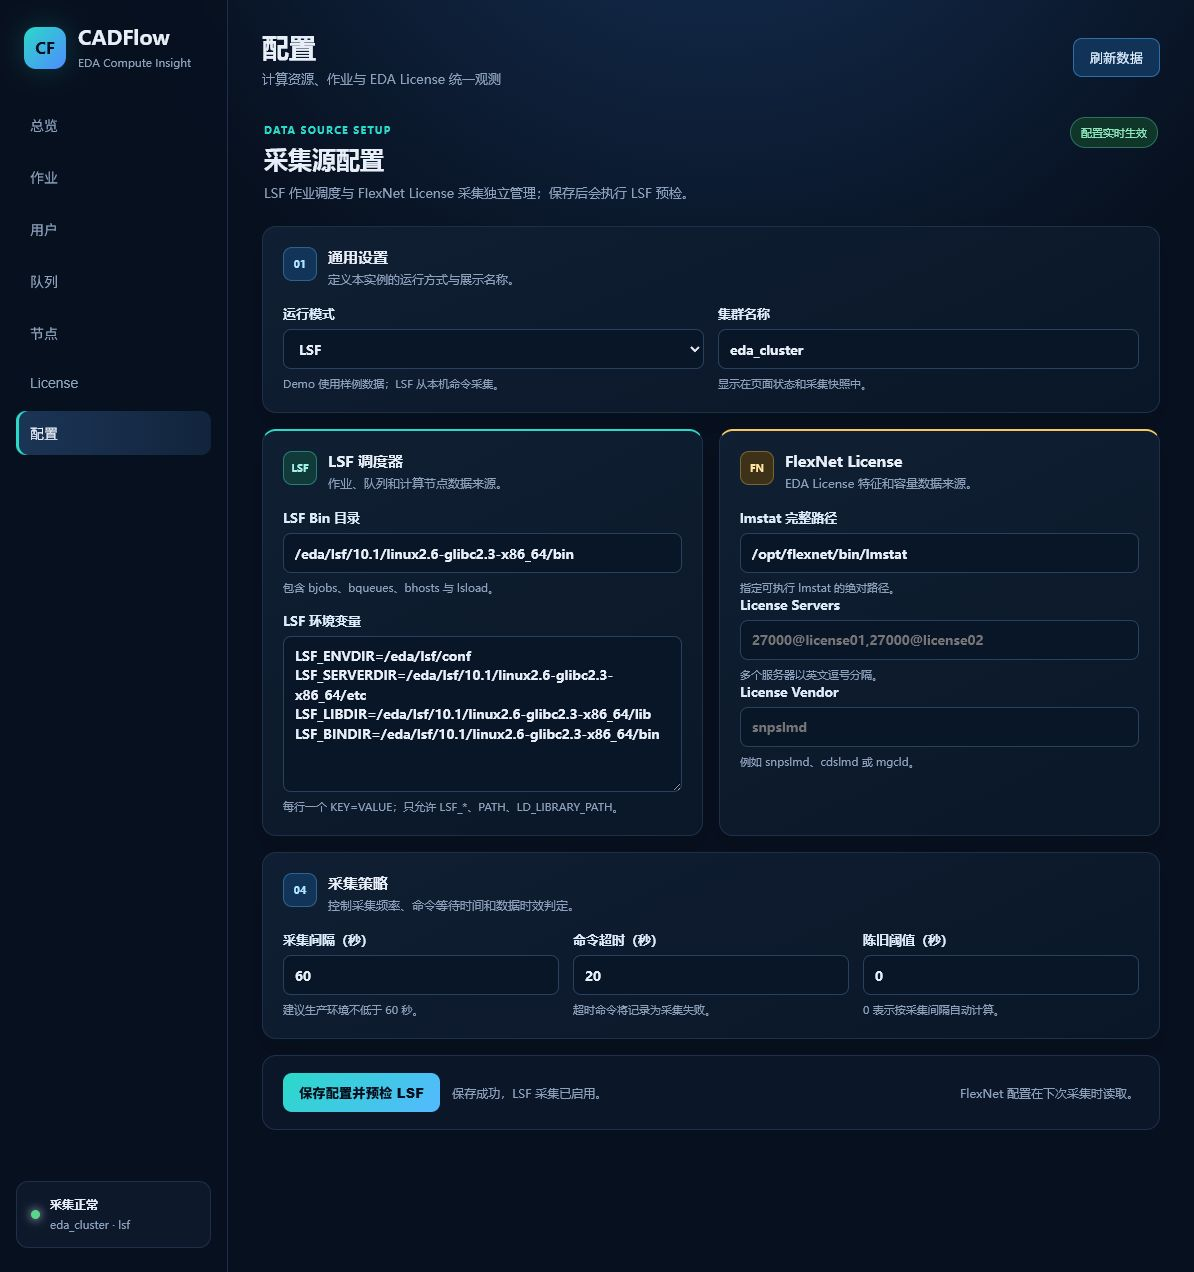
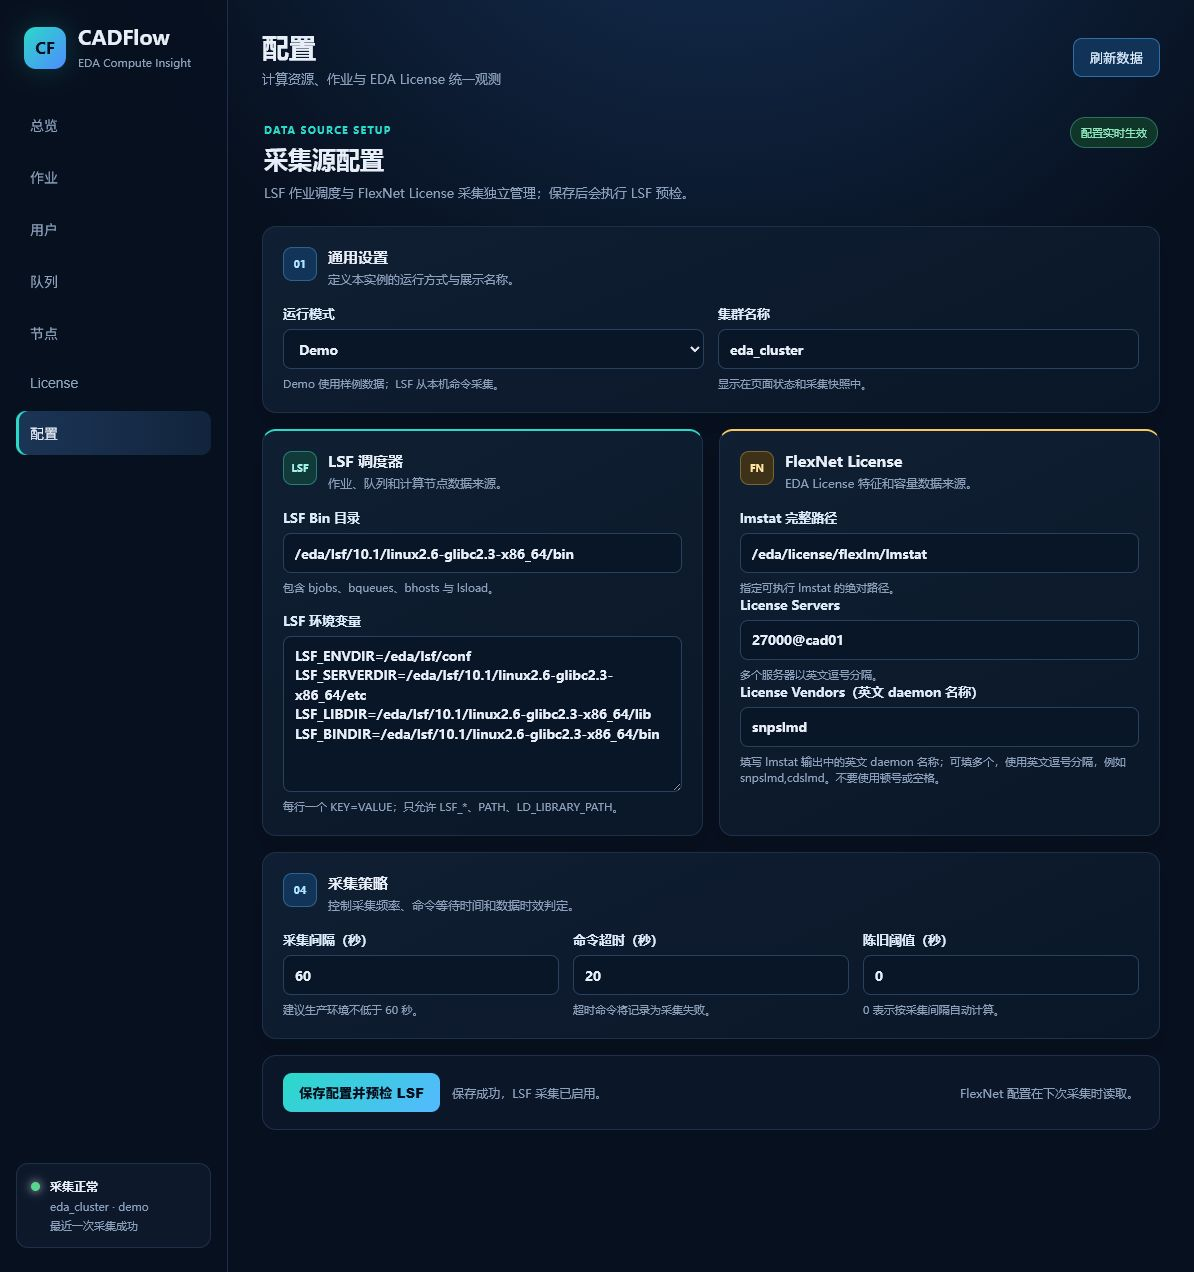
docs: rewrite README with product views

diff --git a/README.md b/README.md
@@ -1,32 +1,82 @@
 # CADFlow Lite
 
-面向芯片公司 CAD/LSF 运维的轻量监控门户。它运行在 Rocky Linux 原生 Python + systemd 环境中，不使用 Docker、Podman、Docker Compose 或 Maven/POM。
+CADFlow Lite 是面向 EDA / CAD 运维团队的轻量级 LSF 与 FlexNet 可观测门户。它将作业、用户、队列、计算节点和 License 用量汇聚到一个 Web 界面，适合在 Rocky Linux 上以原生 Python + systemd 方式部署。
 
-## 产品效果
+不依赖 Docker、Podman、Docker Compose 或 Maven/POM；服务启动后直接访问 `http://服务器IP:8080`。
 
-### 集群总览
+## 功能概览
+
+| 模块 | 解决的问题 |
+| --- | --- |
+| 总览 | 快速查看运行/等待/异常作业、Slots、资源利用率与告警 |
+| 作业 | 按用户、状态筛选作业；查看提交时间、缩略作业名、提交/执行节点、资源申请与运行时长 |
+| 用户 | 汇总各用户的作业数、运行 Slots 与资源占用，并可搜索过滤 |
+| 队列 | 查看 LSF 队列的状态、优先级、并发与等待情况 |
+| 节点 | 查看 Slots、CPU 利用率、Load、可用内存、`/tmp` 与 Swap 等 LSF 主机资源 |
+| License | 读取 FlexNet `lmstat`，按 Vendor、特征名和状态筛选许可证使用情况 |
+| 配置 | 在 Web 中分别配置 LSF 与 FlexNet 采集源，并通过只读 LSF 预检后启用真实采集 |
+
+## 产品界面
+
+以下图片来自当前 CADFlow Web 界面。截图中的数据为演示数据，仅用于展示布局与交互；生产数据由现场 LSF 与 FlexNet 命令只读采集。
+
+### 1. 集群总览
+
+一屏汇总作业状态、Slots、资源利用率、活跃告警及队列负载趋势，适合日常值守。
 
 ![CADFlow 集群总览](docs/screenshots/overview.png)
 
-### 用户资源使用
+### 2. 作业
 
-![CADFlow 用户资源使用](docs/screenshots/users.png)
+支持按用户和作业状态过滤；每个作业显示提交时间、缩略作业名称、提交节点、执行节点、申请资源与运行时长。
 
-### LSF / FlexNet 配置
+![CADFlow 作业视图](docs/screenshots/jobs.png)
+
+### 3. 用户
+
+按 LSF 用户汇总运行、等待、异常作业与 Slots 使用，便于定位资源占用来源。
+
+![CADFlow 用户视图](docs/screenshots/users.png)
+
+### 4. 队列
+
+展示队列优先级、开放/激活状态、作业数、等待数和运行数，辅助判断调度瓶颈。
+
+![CADFlow 队列视图](docs/screenshots/queues.png)
+
+### 5. 节点
+
+展示节点可用 Slots、CPU、Load、可用内存、`/tmp` 与 Swap；数据直接对应 LSF 的 `bhosts` 与 `lsload` 输出。
+
+![CADFlow 节点视图](docs/screenshots/hosts.png)
+
+### 6. License
+
+汇总 FlexNet 特征许可的总数、已用数、剩余数和风险状态，提供关键字、Vendor 与状态筛选。
+
+![CADFlow License 视图](docs/screenshots/licenses.png)
+
+### 7. 采集源配置
+
+LSF 与 FlexNet 独立配置：LSF 使用固定白名单命令采集；FlexNet 指定 `lmstat`、License Server 与一个或多个 Vendor。保存时会执行 LSF 只读预检。
 
 ![CADFlow 采集源配置](docs/screenshots/config.png)
 
-## 功能
+## 数据采集方式
 
-- LSF 作业、队列、主机与 FlexNet License 只读采集
-- Web 首次配置：集群名、LSF Client 路径、License Server 与环境变量
-- SQLite WAL 历史数据、陈旧状态、Prometheus `/metrics`
-- 固定命令白名单：`bjobs`、`bqueues`、`bhosts`、`lsload`、`lmstat`
-- Rocky 10.2 一键安装、systemd 开机自启和自动升级/回滚
+```text
+LSF 命令 (bjobs / bqueues / bhosts / lsload) ─┐
+                                               ├─> CADFlow 采集器 ─> SQLite ─> Web / API / Prometheus
+FlexNet 命令 (lmstat -a) ──────────────────────┘
+```
 
-## Rocky 10.2 一键安装
+- 采集命令固定为只读白名单：`bjobs`、`bqueues`、`bhosts`、`lsload`、`lmstat`。
+- LSF 和 FlexNet 失败彼此隔离：License 暂不可用时，LSF 的作业、队列和节点数据仍可继续采集。
+- 采集结果保存在 SQLite（WAL 模式）；`/metrics` 可供 Prometheus 抓取。
 
-从 Gitee 获取源码后，在源码目录执行：
+## Rocky Linux 一键安装
+
+在 Rocky 10.2（或兼容环境）中执行：
 
 ```bash
 git clone https://gitee.com/raychade/cadflow-lite.git
@@ -34,81 +84,82 @@ cd cadflow-lite
 sudo bash deploy/install-rocky10.sh
 ```
 
-安装位置：
-
-```text
-/opt/cadflow-lite/current                 当前运行版本（软链接）
-/opt/cadflow-lite/releases/<timestamp>    各版本发布目录
-/etc/cadflow-lite/cadflow.env             持久化服务配置
-/var/lib/cadflow-lite/cadflow.db           SQLite 数据与 Web 配置
-```
-
-默认以 Demo 模式监听 `0.0.0.0:8080`，并放行 Rocky 防火墙的 TCP/8080。浏览器打开：
+安装完成后，打开：
 
 ```text
 http://ROCKY_IP:8080
 ```
 
-若不希望脚本修改防火墙：
+默认以 Demo 模式启动，便于立即验证页面。真实 LSF 环境请在左侧 **配置** 页面填写 LSF 和 FlexNet 参数后保存。
+
+常用目录：
+
+```text
+/opt/cadflow-lite/current                 当前运行版本（软链接）
+/opt/cadflow-lite/releases/<timestamp>    各版本发布目录
+/etc/cadflow-lite/cadflow.env             持久化服务配置
+/var/lib/cadflow-lite/cadflow.db           SQLite 数据和 Web 配置
+```
+
+如果不希望安装脚本调整防火墙：
 
 ```bash
 sudo bash deploy/install-rocky10.sh --no-firewall
 ```
 
-## Web 配置真实 LSF
+## 配置真实 LSF / FlexNet
 
-在页面左侧进入 **配置**，填写：LSF Bin 目录、`lmstat` 路径、License Server、Vendor 和必要的 `LSF_*` 环境变量。保存时会执行固定的只读预检；只有预检成功，配置才会切换为 LSF 采集。
+在 **配置** 页面填写：
 
-预检前，先使用将来运行服务的账号确认现场命令支持以下字段：
+1. 运行模式选择 **LSF**，并填写集群名称。
+2. 填写 LSF Bin 目录，例如 `/eda/lsf/10.1/linux2.6-glibc2.3-x86_64/bin`。
+3. 在 LSF 环境变量中填写 `LSF_ENVDIR`、`LSF_SERVERDIR`、`LSF_LIBDIR`、`LSF_BINDIR` 等现场变量。
+4. 填写 `lmstat` 的完整路径和 License Server，例如 `27000@cad01`。
+5. License Vendor 可填写多个名称，使用英文逗号分隔，例如：`snpslmd,cdslmd,mgcld`。
+6. 点击 **保存配置并预检 LSF**。预检通过后，后续采集即使用现场真实命令。
+
+建议先以服务账号验证现场命令：
 
 ```bash
-bjobs -u all -a -noheader -o "jobid user stat queue from_host exec_host job_name submit_time slots max_mem run_time proj_name delimiter='|'"
-bqueues -w
-bhosts -w
-lsload -w
-lmstat -a -c 27000@license01
+sudo -u cadflow bash -lc '
+  source /eda/lsf/conf/profile.lsf
+  bjobs -u all -a
+  bqueues -w
+  bhosts -w
+  lsload -w
+  /eda/license/flexlm/lmstat -a -c 27000@cad01
+'
 ```
 
-## 运行、日志与重启
+## 运行、日志与升级
 
 ```bash
-sudo bash deploy/run-rocky10.sh
+# 服务状态与日志
 sudo systemctl status cadflow-lite --no-pager
 sudo journalctl -u cadflow-lite -f
+
+# 重启服务
 sudo systemctl restart cadflow-lite
+
+# 从 Gitee master 一键升级，失败自动回滚
+sudo bash /opt/cadflow-lite/current/deploy/upgrade-rocky10.sh
 ```
 
-服务由 systemd 管理，已启用开机自启；Rocky 重启后无需重新运行项目命令。
-
-## 一键自动升级
-
-默认从 Gitee `master` 获取最新版本，构建新的原生 Python 发布目录，备份 SQLite，切换 `current` 软链接并进行健康检查。失败会自动回滚到上一版本。
-
-```bash
-sudo bash deploy/upgrade-rocky10.sh
-```
-
-也可使用已下载的本地源码升级：
-
-```bash
-sudo bash deploy/upgrade-rocky10.sh --source /path/to/cadflow-lite
-```
-
-升级不会覆盖 `/etc/cadflow-lite/cadflow.env` 或 `/var/lib/cadflow-lite/cadflow.db`。
+服务由 systemd 管理，并在安装时启用开机自启；服务器重启后 CADFlow 会自动恢复。
 
 ## API
 
 | API | 用途 |
-|---|---|
-| `GET /api/health` | 采集健康、陈旧状态与快照年龄 |
+| --- | --- |
+| `GET /api/health` | 采集健康、部分失败信息、陈旧状态和快照年龄 |
 | `GET /api/summary` | 集群总览 |
 | `GET /api/jobs` | 作业列表，支持状态/用户/队列过滤 |
-| `GET /api/queues`、`/api/hosts`、`/api/licenses` | 资源状态 |
+| `GET /api/queues`、`/api/hosts`、`/api/licenses` | 队列、节点、License 数据 |
 | `GET /api/config`、`PUT /api/config` | Web 配置 |
-| `POST /api/collect` | 手工触发采集 |
+| `POST /api/collect` | 立即触发一次采集 |
 | `GET /metrics` | Prometheus 指标 |
 
-## 验证
+## 开发验证
 
 ```bash
 python3 -m pytest -q
